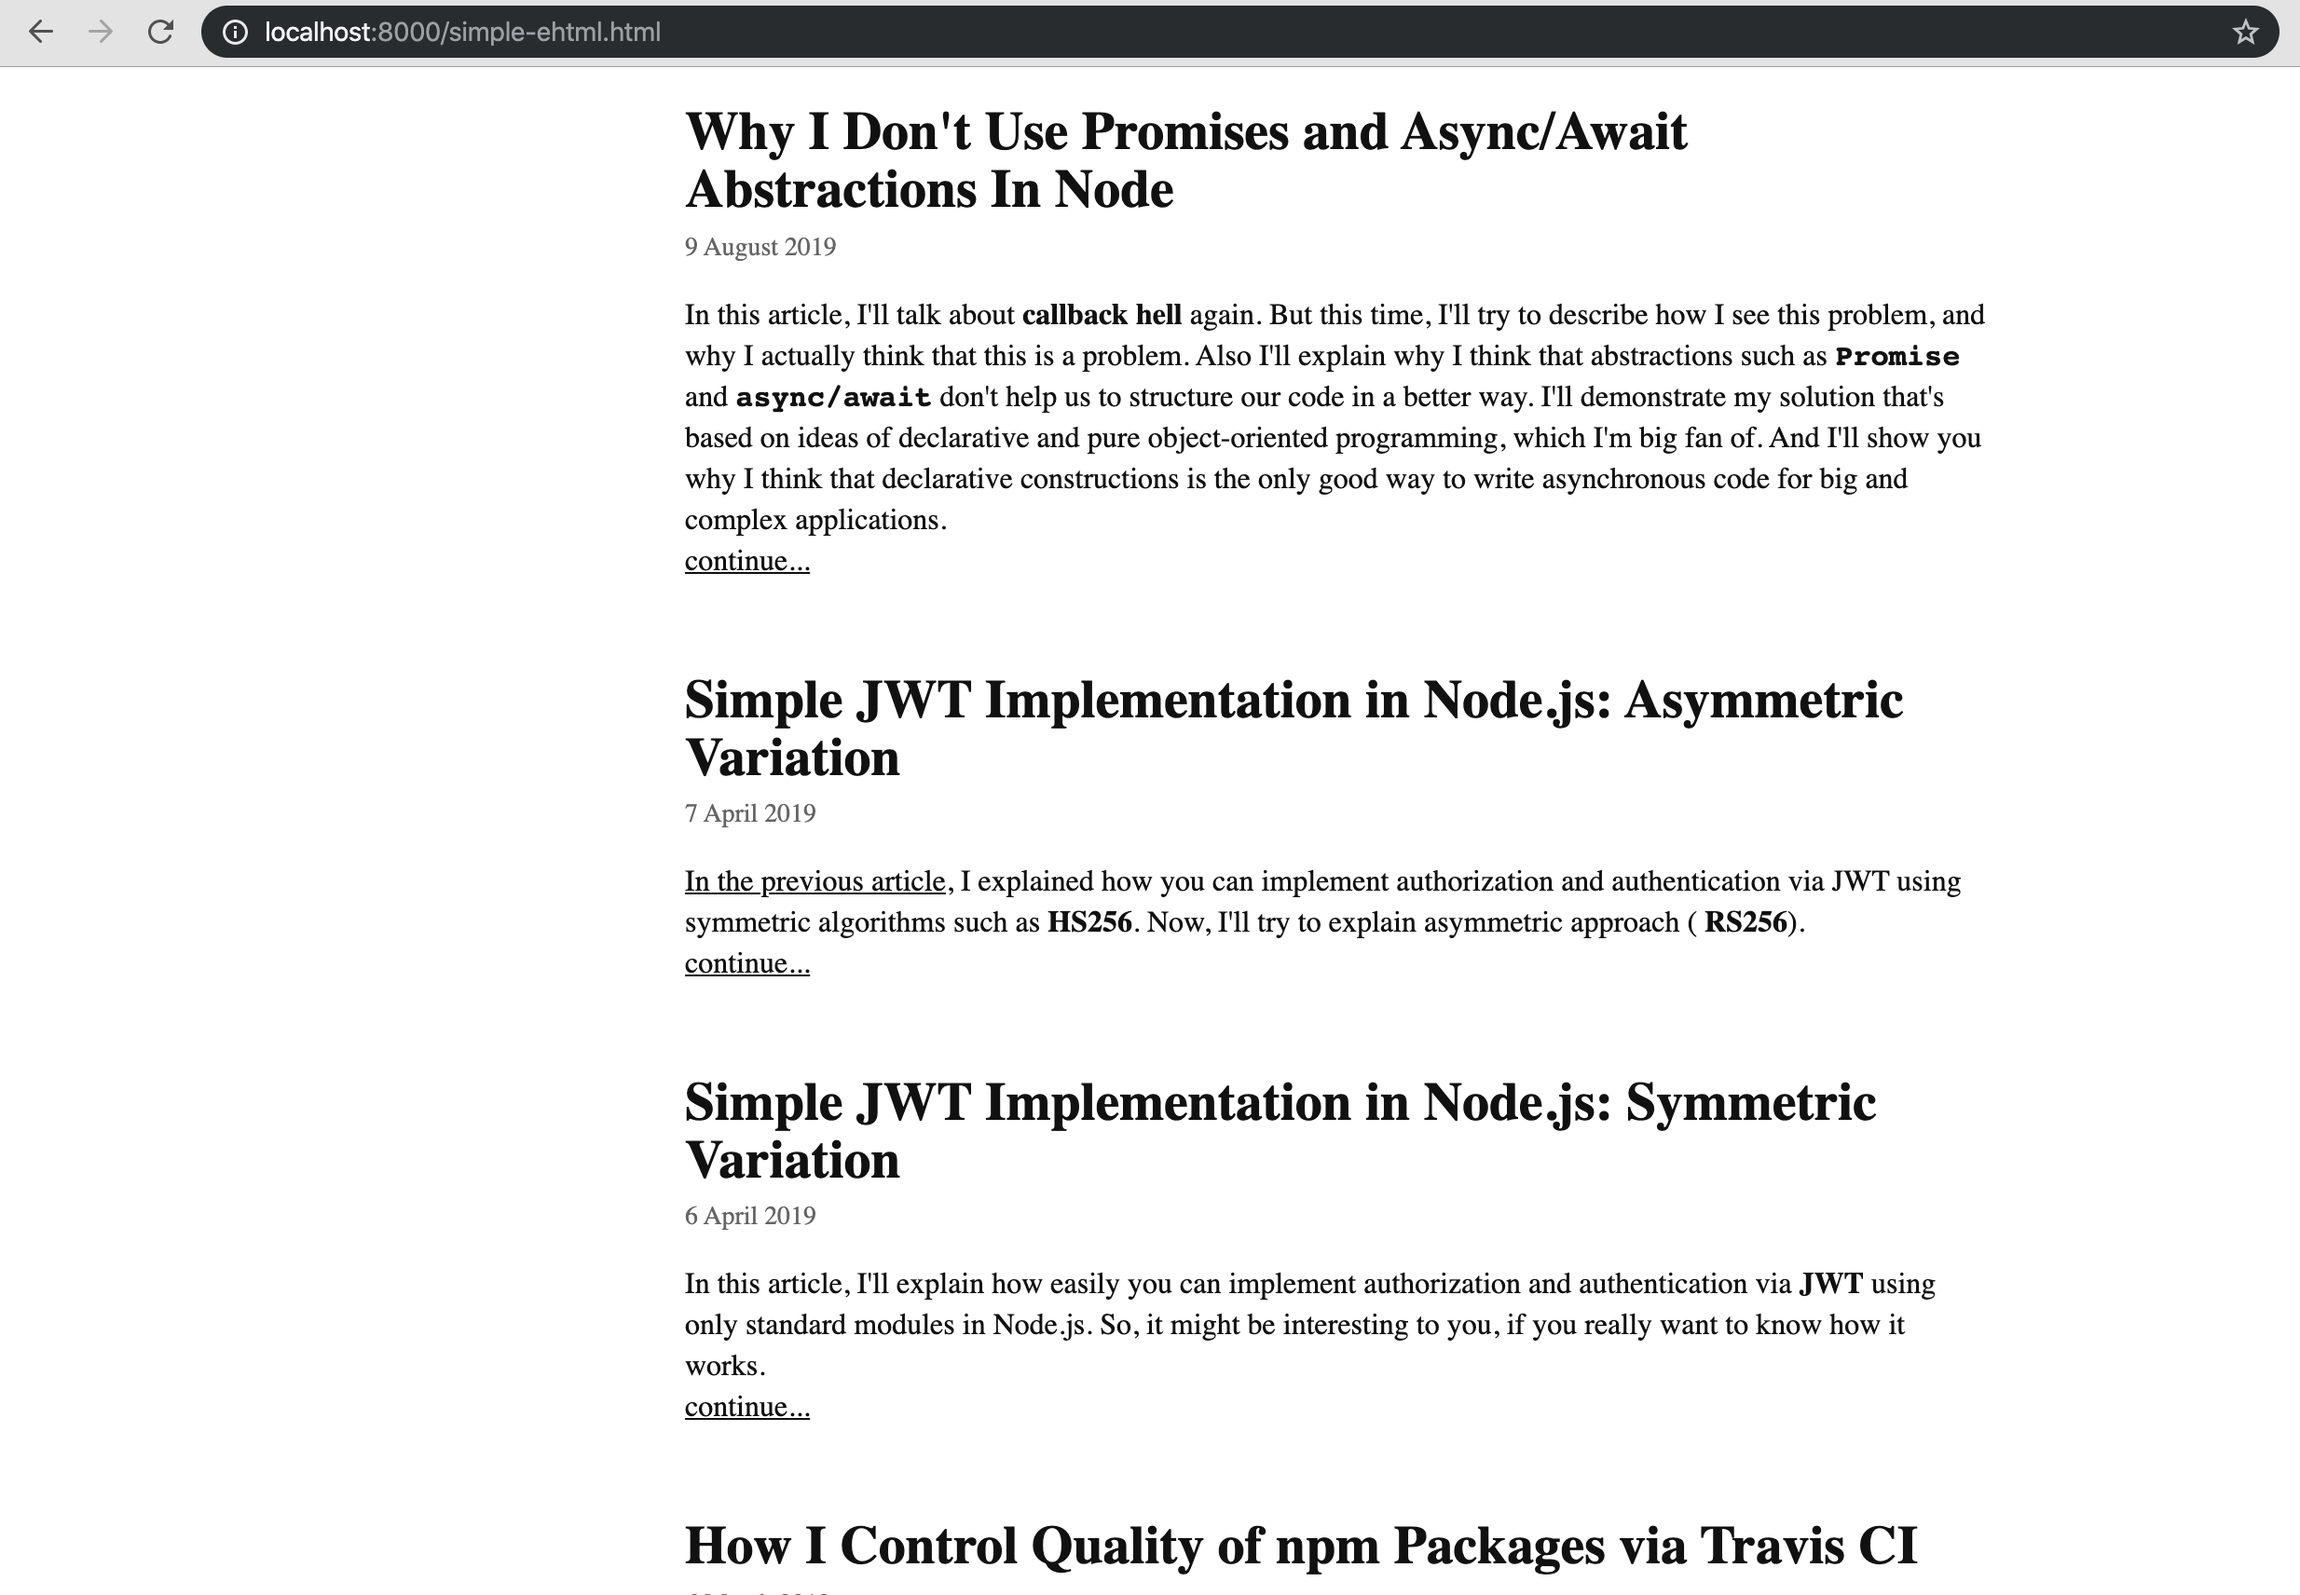
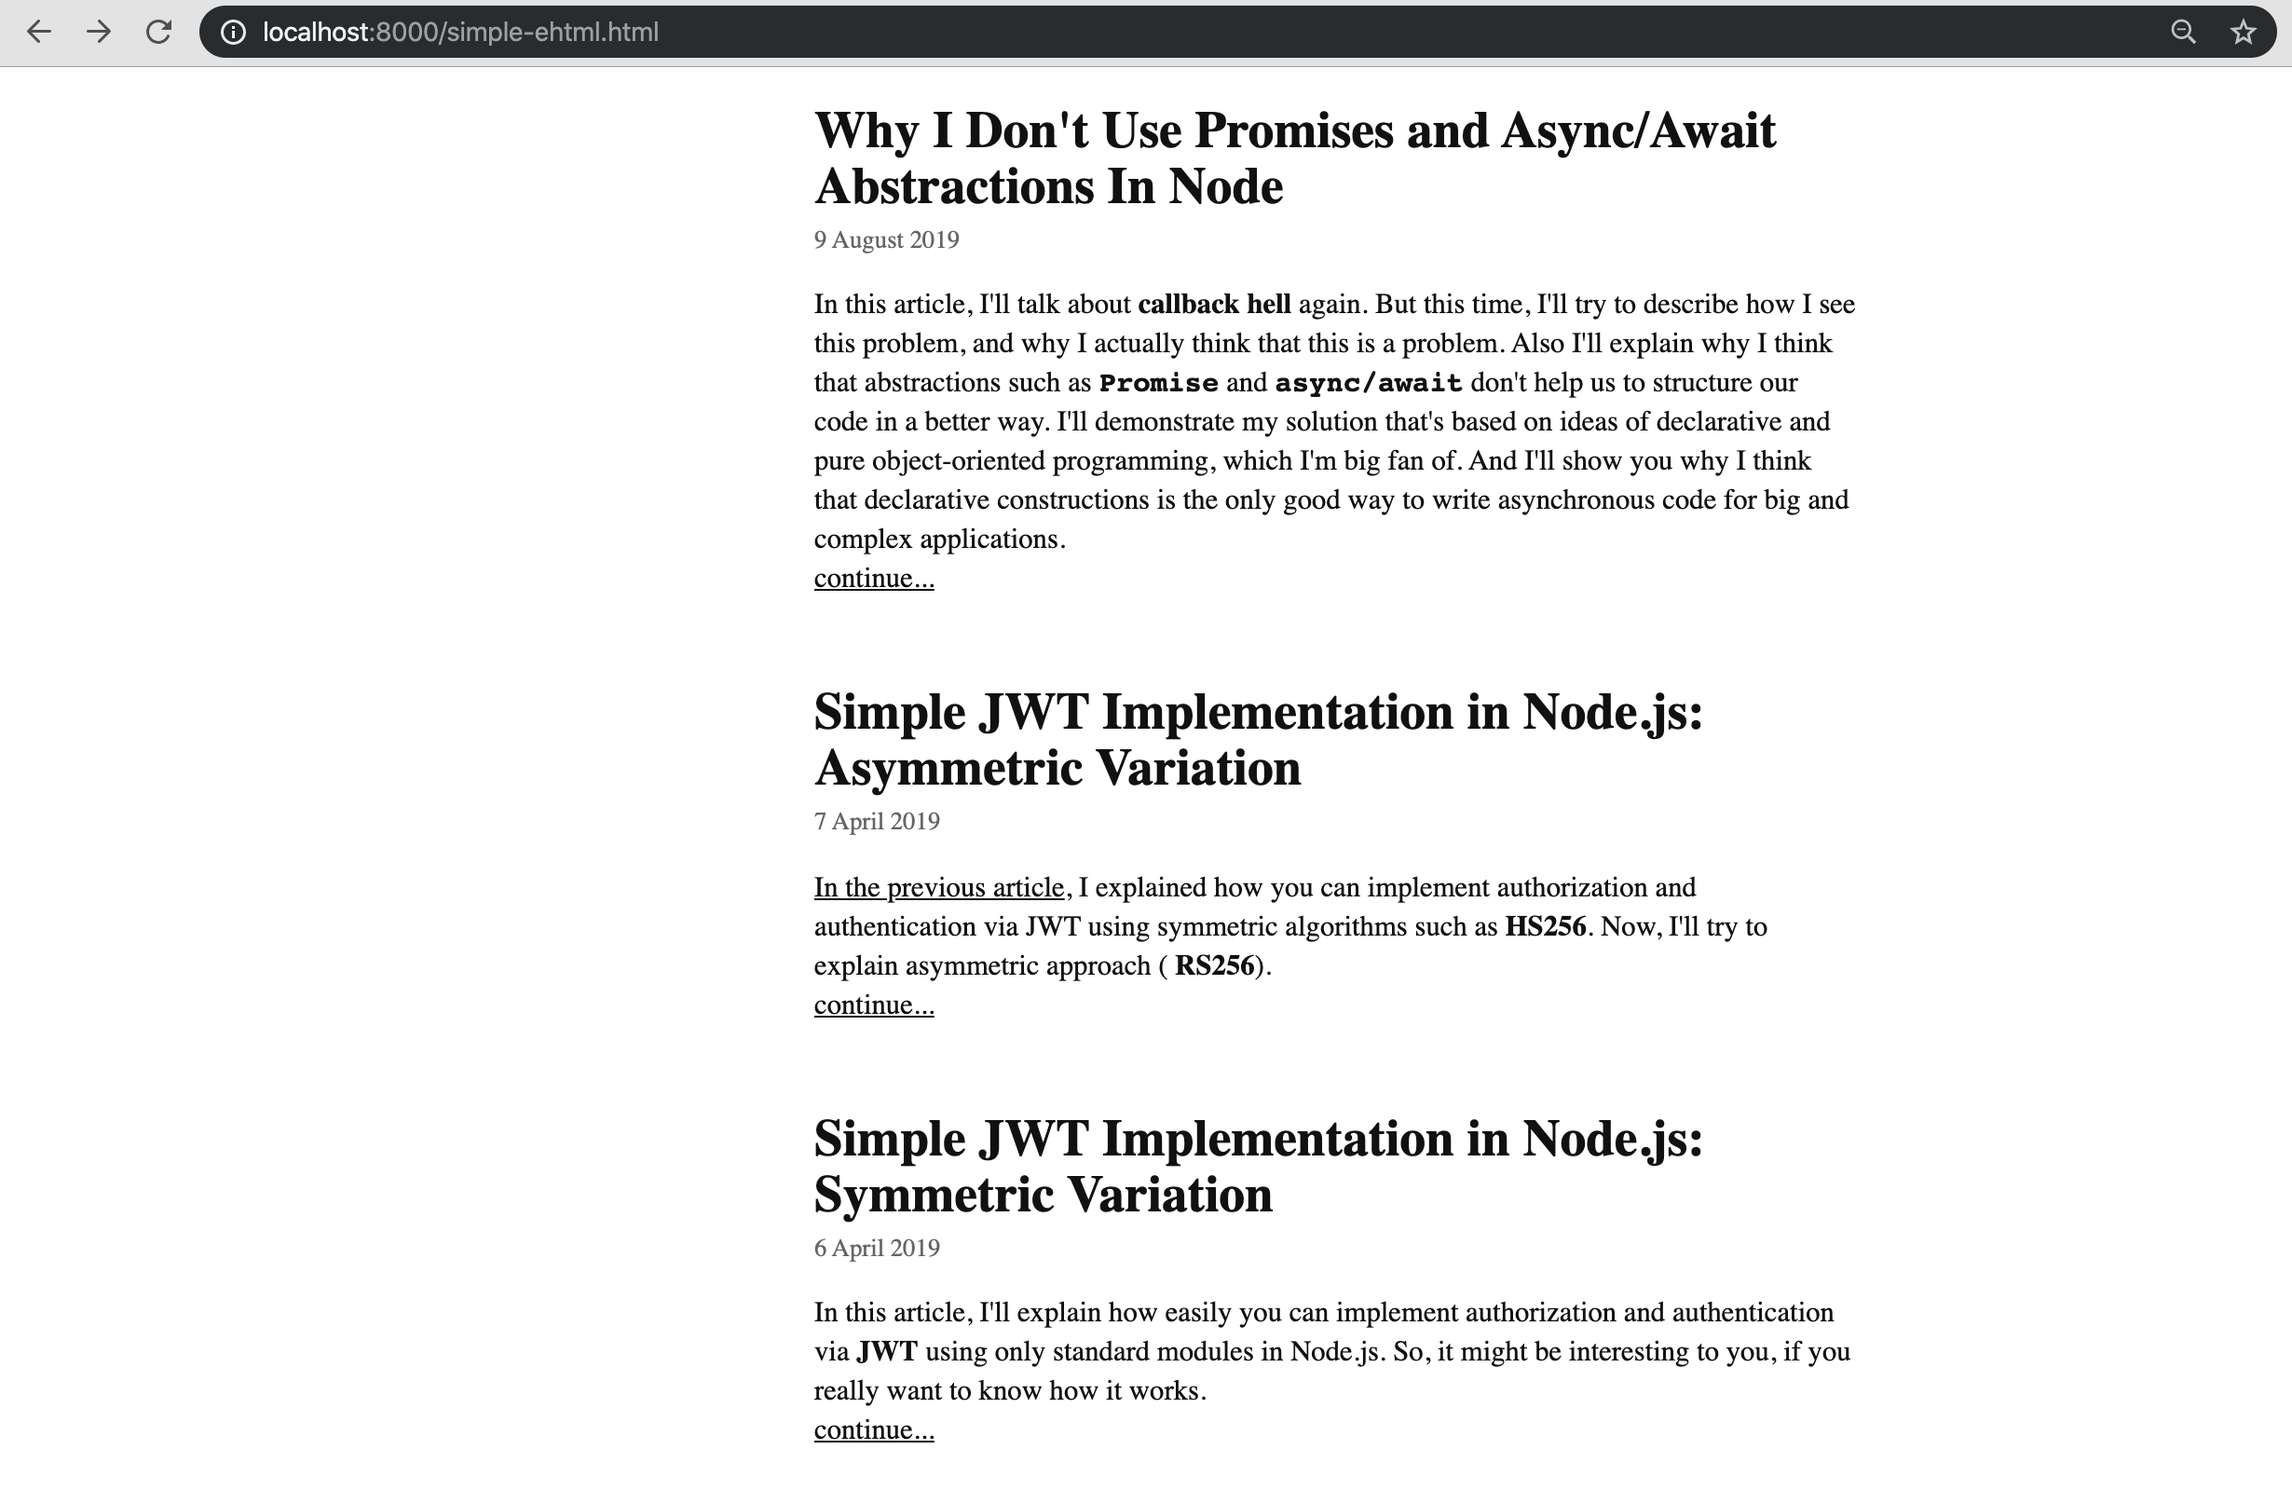
fix readme and image

Changed region(s): [[0.0618, 0.0, 1.0, 0.9913]]

diff --git a/examples/src/simple-ehtml.html b/examples/src/simple-ehtml.html
@@ -17,9 +17,6 @@
       <e-html data-src="/../html/why-i-dont-use-promises-and-async-await.html"></e-html>
       <e-html data-src="/../html/simple-rs-jwt.html"></e-html>
       <e-html data-src="/../html/simple-jwt.html"></e-html>
-      <e-html data-src="/../html/travis-control-quality.html"></e-html>
-      <e-html data-src="/../html/page-framework.html"></e-html>
-      <e-html data-src="/../html/declarative-rest-api.html"></e-html>
     </div> 
   </body>
 

diff --git a/examples/backend/static/css/main.css b/examples/backend/static/css/main.css
@@ -414,6 +414,7 @@ iframe {
 @media only screen and (min-width: 700px) {
   .base {
     width: 700px;
+    font-size: 1.2em;
   }
   .menu {
     font-size: 1.2em;

diff --git a/README.md b/README.md
@@ -56,9 +56,6 @@ Thanks to HTML5 it's possible for relevant browsers. Read further and you'll see
         <e-html data-src="/../html/first.html"></e-html>
         <e-html data-src="/../html/second.html"></e-html>
         <e-html data-src="/../html/third.html"></e-html>
-        <e-html data-src="/../html/fourth.html"></e-html>
-        <e-html data-src="/../html/fifth.html"></e-html>
-        <e-html data-src="/../html/sixth.html"></e-html>
 
       </div>
     </body>
@@ -66,7 +63,7 @@ Thanks to HTML5 it's possible for relevant browsers. Read further and you'll see
   </html>
   ```
 
-  and as you can see, we have 6 `e-html` tags there. And each of them refers to some html file which contains some part of the `article.hmtl`. This tag has only one custom attribute `data-src`, which tells us where exactly the file that we want to include is served.
+  and as you can see, we have three `e-html` tags there. And each of them refers to some html file which contains some part of the `article.hmtl`. This tag has only one custom attribute `data-src`, which tells us where exactly the file that we want to include is served.
 
   And for example, `first.html` would look something like this
 
@@ -102,15 +99,6 @@ Thanks to HTML5 it's possible for relevant browsers. Read further and you'll see
         </div>
         <div class="article">
           <!-- content of the third article -->
-        </div>
-        <div class="article">
-          <!-- content of the fourth article -->
-        </div>
-        <div class="article">
-          <!-- content of the fith article -->
-        </div>
-        <div class="article">
-          <!-- content of the sixth article -->
         </div>
 
       </div>
@@ -870,9 +858,6 @@ And then just open [http://localhost:8000/](http://localhost:8000/).
       <e-html data-src="/../html/why-i-dont-use-promises-and-async-await.html"></e-html>
       <e-html data-src="/../html/simple-rs-jwt.html"></e-html>
       <e-html data-src="/../html/simple-jwt.html"></e-html>
-      <e-html data-src="/../html/travis-control-quality.html"></e-html>
-      <e-html data-src="/../html/page-framework.html"></e-html>
-      <e-html data-src="/../html/declarative-rest-api.html"></e-html>
     </div> 
   </body>
   ```
